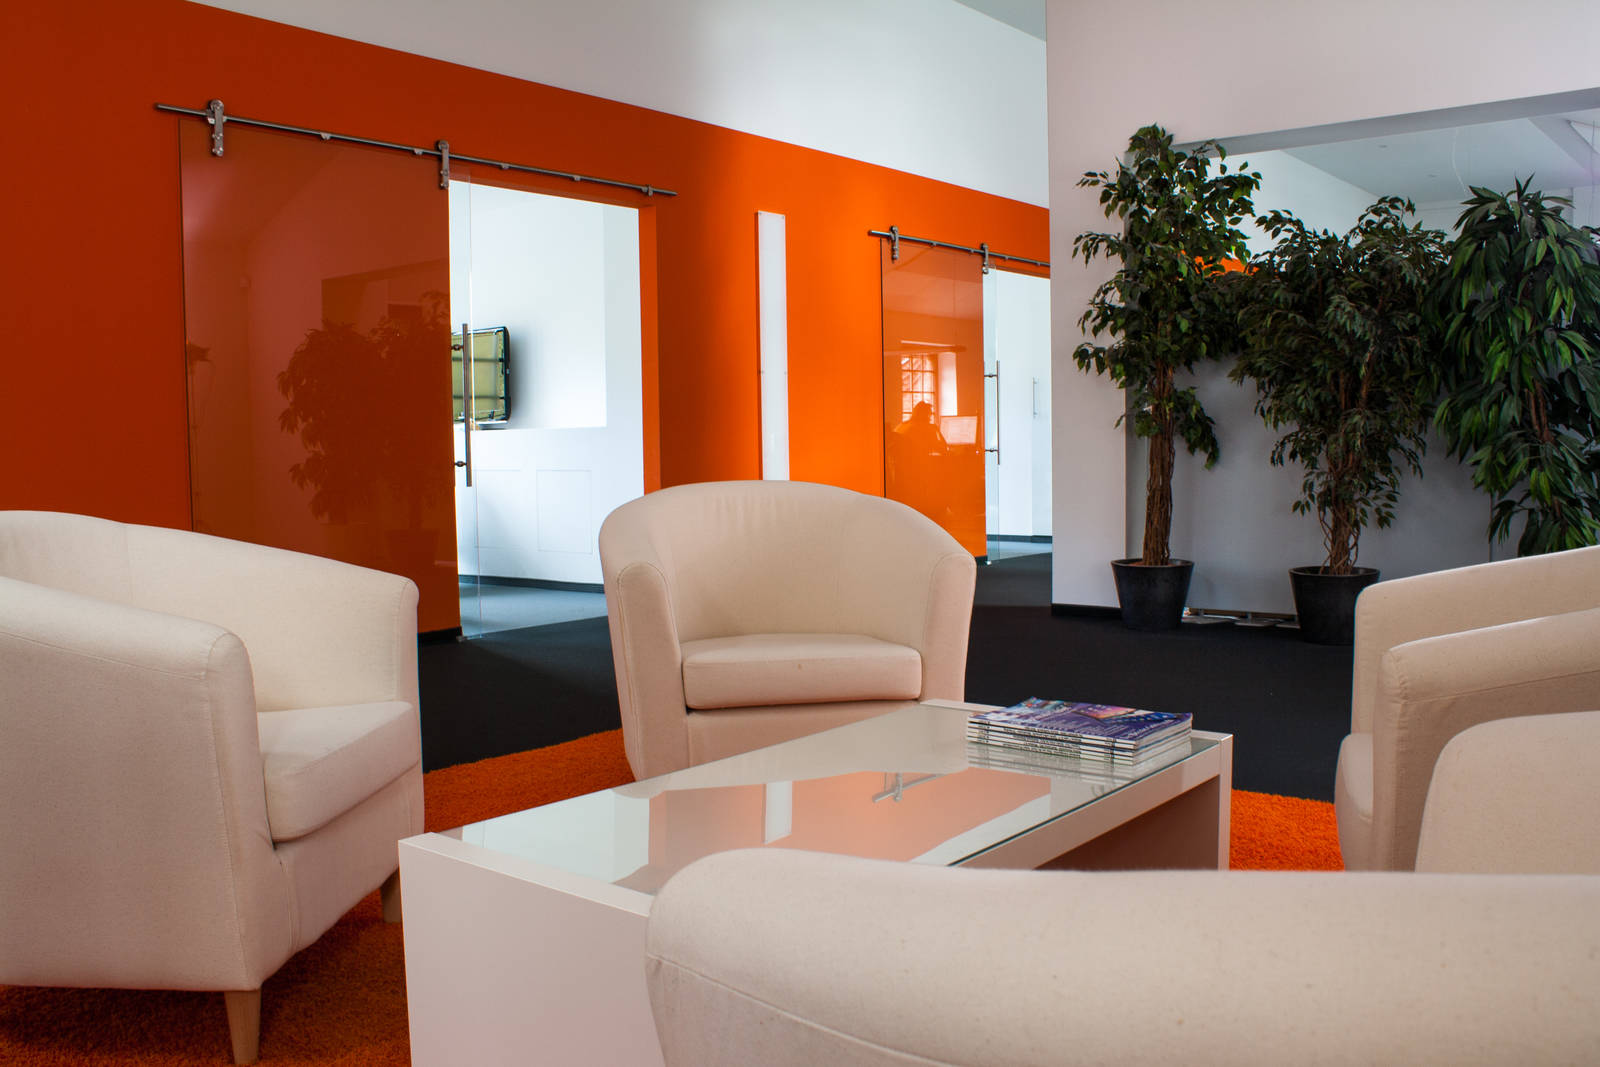
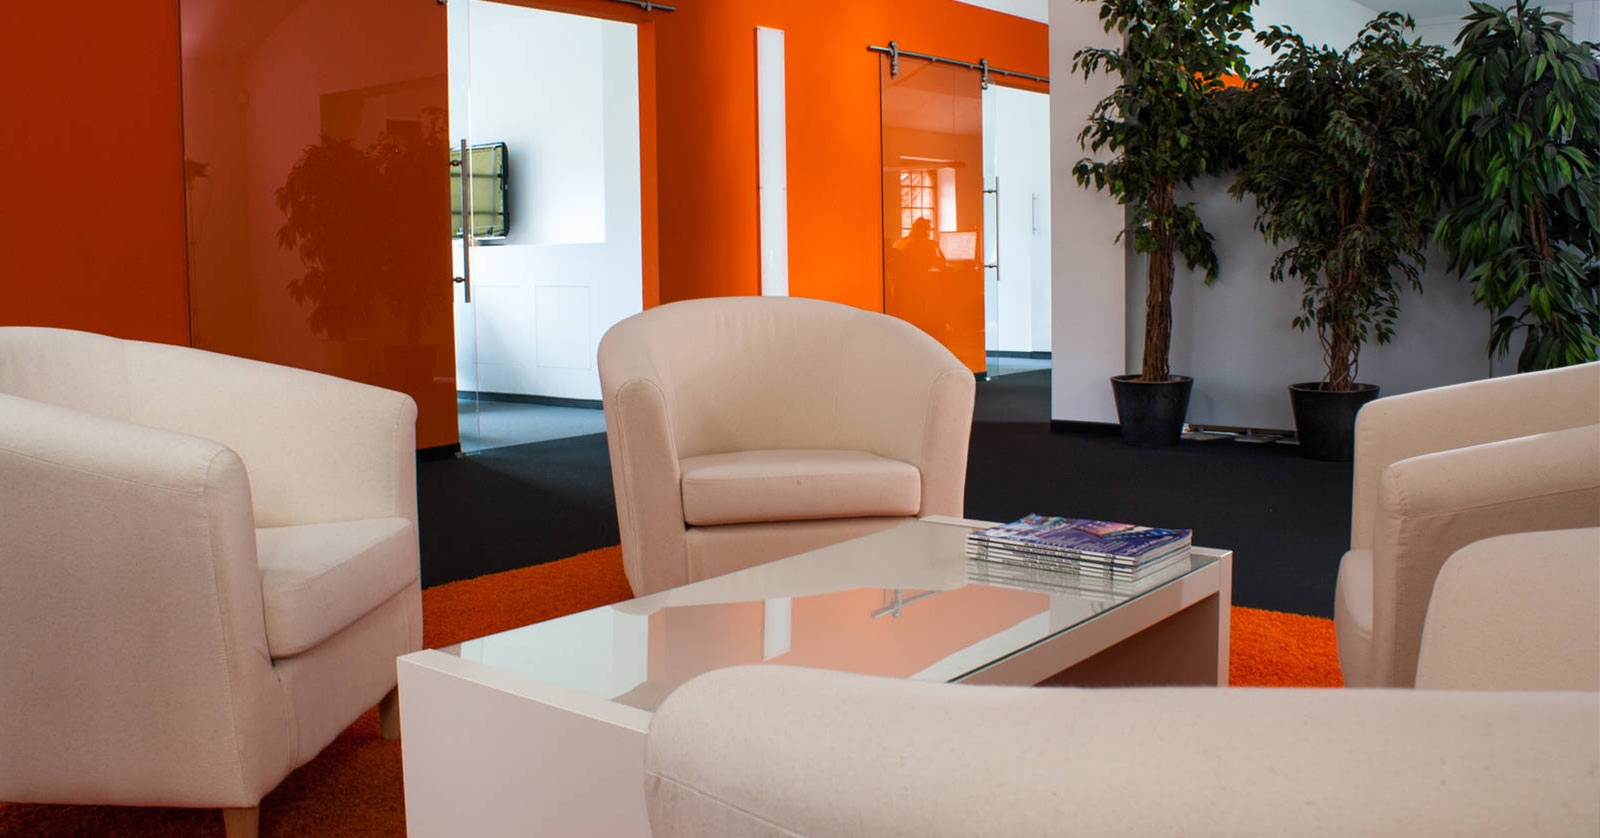
CSS Anpassungen

diff --git a/core/index.html b/core/index.html
@@ -382,7 +382,8 @@ window.onerror = function(message, url, linenumber) {
         <section class="stage">
             <div class="parallax" data-jmname="parallax-content-scrollY" data-jmdominit="true">
                 <div class="parallax-inner layer" data-depth="1.5">
-                    <img src="/images/jm/fotos/hand-tablet.jpg" alt="Hand mit Tablet" class="parallax-img" style="margin: -6.25% 0;">
+                    <span style="background-image: url('/images/jm/fotos/tablet-kaffee.jpg');" class="parallax-img"></span>
+                    <!-- <img src="/images/jm/fotos/tablet-kaffee.jpg" alt="Hand mit Tablet und Kaffee" class="parallax-img" style="margin: -6.25% 0;"> -->
                 </div>
             </div>
 
@@ -543,6 +544,7 @@ window.onerror = function(message, url, linenumber) {
                             <img src="/images/jm/icons/speechbubbles-outline-white.svg" alt="Icon für Beratung sowie UX- und Web-Design">
                         </div>
                     </div>
+                </div>
             </article>
 
             <article class="block img-left">
@@ -601,22 +603,36 @@ window.onerror = function(message, url, linenumber) {
                         <div class="headline slide-in-left fade-in" data-jmname="add-remove-show-on-view" data-jmdominit="true">
                             <h2>Kunden</h2>
                         </div>
-                        <ul class="tiles tiles-1x4">
-                            <li class="tile"><img src="/images/jm/logos/eplusgruppe.svg" alt="E-Plus Gruppe Logo"></li>
-                            <li class="tile"><img src="/images/jm/logos/base.svg" alt="Base Logo"></li>
-                            <li class="tile"><img src="/images/jm/logos/ayyildiz.svg" alt="Ay Yildiz Logo"></li>
-                            <li class="tile"><img src="/images/jm/logos/hidrostal.svg" alt="Hidrostal Logo"></li>
-                            <li class="tile"><img src="/images/jm/logos/cunda.svg" alt="C&amp;A Logo"></li>
-                            <li class="tile"><img src="/images/jm/logos/ferrero.svg" alt="Ferrero Logo"></li>
-                            <li class="tile"><img src="/images/jm/logos/lared.svg" alt="La Red Logo"></li>
-                            <li class="tile"><img src="/images/jm/logos/police.svg" alt="Police Logo"></li>
-                            <li class="tile"><img src="/images/jm/logos/mitsui.svg" alt="Mitsui Logo"></li>
-                            <li class="tile"><img src="/images/jm/logos/grey.svg" alt="Grey Logo"></li>
-                        </ul>
                     </div>
                 </div>
                 <div class="parallax-inner layer" data-depth="1.5">
-                    <img src="/images/jm/fotos/konferenzraum-blur.jpg" alt="Konferenzraum" class="parallax-img" style="margin: -6.25% 0;">
+                    <!-- <img src="/images/jm/fotos/konferenzraum-blur.jpg" alt="Konferenzraum" class="parallax-img" style="margin: -6.25% 0;"> -->
+                    <picture>
+                        <!--[if IE 9]><video style="display: none;"><![endif]-->
+                        <source srcset="//dummyimage.com/1600x960/666/ddd.png&text=IMG" media="(min-width: 60em)" /></source>
+                        <source srcset="//dummyimage.com/1200x960/666/ddd.png&text=IMG" media="(min-width: 48em)" /></source>
+                        <source srcset="//dummyimage.com/600x900/666/ddd.png&text=IMG"></source>
+                        <!--[if IE 9]></video><![endif]-->
+                        <img srcset="//dummyimage.com/600x900/666/ddd.png&text=IMG" src="//dummyimage.com/600x900/666/ddd.png&text=IMG" alt="IMG" class="parallax-img" /></source>
+                    </picture>
+                </div>
+                <div class="parallax-inner" data-depth="1">
+                    <div class="section-header-content">
+                        <div class="section-header-center">
+                            <ul class="tiles tiles-1x4 section-header-center-content">
+                                <li class="tile"><img src="/images/jm/logos/eplusgruppe.svg" alt="E-Plus Gruppe Logo"></li>
+                                <li class="tile"><img src="/images/jm/logos/base.svg" alt="Base Logo"></li>
+                                <li class="tile"><img src="/images/jm/logos/ayyildiz.svg" alt="Ay Yildiz Logo"></li>
+                                <li class="tile"><img src="/images/jm/logos/hidrostal.svg" alt="Hidrostal Logo"></li>
+                                <li class="tile"><img src="/images/jm/logos/cunda.svg" alt="C&amp;A Logo"></li>
+                                <li class="tile"><img src="/images/jm/logos/ferrero.svg" alt="Ferrero Logo"></li>
+                                <li class="tile"><img src="/images/jm/logos/lared.svg" alt="La Red Logo"></li>
+                                <li class="tile"><img src="/images/jm/logos/police.svg" alt="Police Logo"></li>
+                                <li class="tile"><img src="/images/jm/logos/mitsui.svg" alt="Mitsui Logo"></li>
+                                <li class="tile"><img src="/images/jm/logos/grey.svg" alt="Grey Logo"></li>
+                            </ul>
+                        </div>
+                    </div>
                 </div>
             </div>
 

diff --git a/core/css/style.css b/core/css/style.css
@@ -1016,8 +1016,8 @@ p:last-child {
 
 @-webkit-keyframes fadeInUp {
   0% {
-    -webkit-transform: translate3d(0, 10%, 0);
-    transform: translate3d(0, 10%, 0);
+    -webkit-transform: translate3d(0, 5%, 0);
+    transform: translate3d(0, 5%, 0);
   }
   100% {
     -webkit-transform: none;
@@ -1026,8 +1026,8 @@ p:last-child {
 }
 @-moz-keyframes fadeInUp {
   0% {
-    -webkit-transform: translate3d(0, 10%, 0);
-    transform: translate3d(0, 10%, 0);
+    -webkit-transform: translate3d(0, 5%, 0);
+    transform: translate3d(0, 5%, 0);
   }
   100% {
     -webkit-transform: none;
@@ -1036,8 +1036,8 @@ p:last-child {
 }
 @-o-keyframes fadeInUp {
   0% {
-    -webkit-transform: translate3d(0, 10%, 0);
-    transform: translate3d(0, 10%, 0);
+    -webkit-transform: translate3d(0, 5%, 0);
+    transform: translate3d(0, 5%, 0);
   }
   100% {
     -webkit-transform: none;
@@ -1046,8 +1046,8 @@ p:last-child {
 }
 @keyframes fadeInUp {
   0% {
-    -webkit-transform: translate3d(0, 10%, 0);
-    transform: translate3d(0, 10%, 0);
+    -webkit-transform: translate3d(0, 5%, 0);
+    transform: translate3d(0, 5%, 0);
   }
   100% {
     -webkit-transform: none;
@@ -1195,9 +1195,6 @@ p:last-child {
   clear: both;
 }
 
-.section-header {
-  height: 350px;
-}
 .section-header .parallax-img {
   max-width: none;
   width: 100%;
@@ -1222,6 +1219,18 @@ p:last-child {
 }
 .section-header-content:after {
   clear: both;
+}
+
+.section-header-center {
+  position: absolute;
+  width: 100%;
+  height: 100%;
+  display: table;
+}
+
+.section-header-center-content {
+  display: table-cell;
+  vertical-align: middle;
 }
 
 .joinmedia {
@@ -1340,9 +1349,14 @@ p:last-child {
 .stage > .parallax {
   height: 100vh;
 }
+.stage > .parallax .parallax-inner {
+  height: 100%;
+}
 .stage > .parallax .parallax-img {
-  max-width: none;
+  background-size: cover;
   width: 100%;
+  height: 100%;
+  display: block;
 }
 
 /*------------------------------------*\
@@ -1702,7 +1716,7 @@ p:last-child {
   -o-transition: background-color 0.3s ease;
   -webkit-transition: background-color 0.3s ease;
   transition: background-color 0.3s ease;
[1 lines of base64/hex data omitted]
+  background: transparent url("/images/jm/arrow-down.png") no-repeat scroll 50% 50%;
   color: #666;
   display: block;
   margin: 0 auto;

diff --git a/core/scss/objects/modules/_back-to-top.scss b/core/scss/objects/modules/_back-to-top.scss
@@ -4,7 +4,8 @@
 
 .back-to-top {
 	@include transition(background-color .3s ease);
[2 lines of base64/hex data omitted]
+	background: $theme-backtotop-bg url("/images/jm/arrow-down.png") no-repeat scroll 50% 50%;
 	color: $theme-backtotop-fg;
 	display: block;
 	margin: 0 auto;

diff --git a/core/scss/objects/_main.scss b/core/scss/objects/_main.scss
@@ -42,7 +42,7 @@
 }
 
 .section-header {
-	height: 350px;
+	// height: 350px;
 
 	.parallax-img {
 		max-width: none;
@@ -53,6 +53,18 @@
 .section-header-content {
 	@include constrained;
 	@include element-stretch;
+}
+
+.section-header-center {
+	position: absolute;
+	width: 100%;
+	height: 100%;
+	display: table;
+}
+
+.section-header-center-content {
+	display: table-cell;
+	vertical-align: middle;
 }
 
 .joinmedia {
@@ -153,12 +165,14 @@
 		height: 100vh;
 
 		.parallax-inner {
-
+			height: 100%;
 		}
 
 		.parallax-img {
-			max-width: none;
-			width: 100%;
+			background-size: cover; 
+			width: 100%; 
+			height: 100%; 
+			display: block;
 		}
 	}
 	

diff --git a/core/scss/base/_animation.scss b/core/scss/base/_animation.scss
@@ -118,8 +118,8 @@
 
 @include keyframes(fadeInUp) {
 	0% {
-    -webkit-transform: translate3d(0, 10%, 0);
-            transform: translate3d(0, 10%, 0);
+    -webkit-transform: translate3d(0, 5%, 0);
+            transform: translate3d(0, 5%, 0);
   }
 
   100% {
